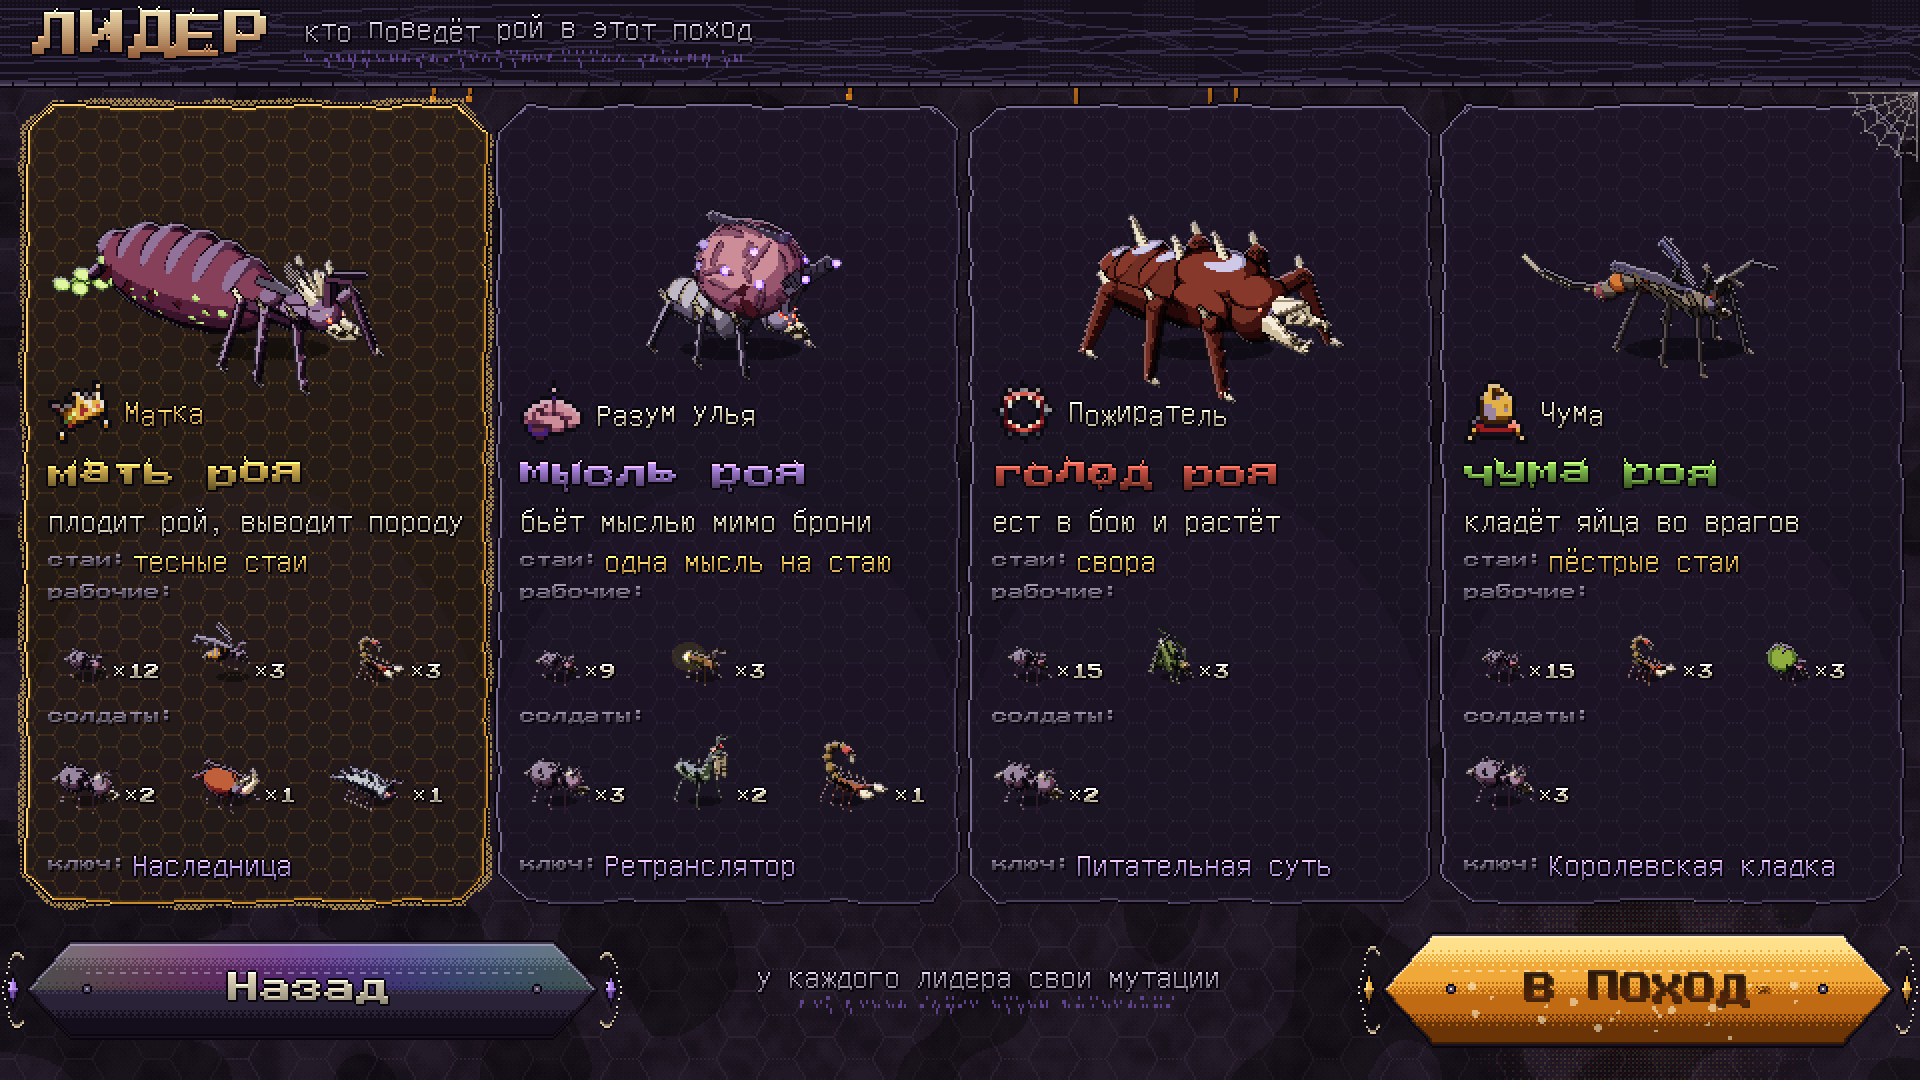
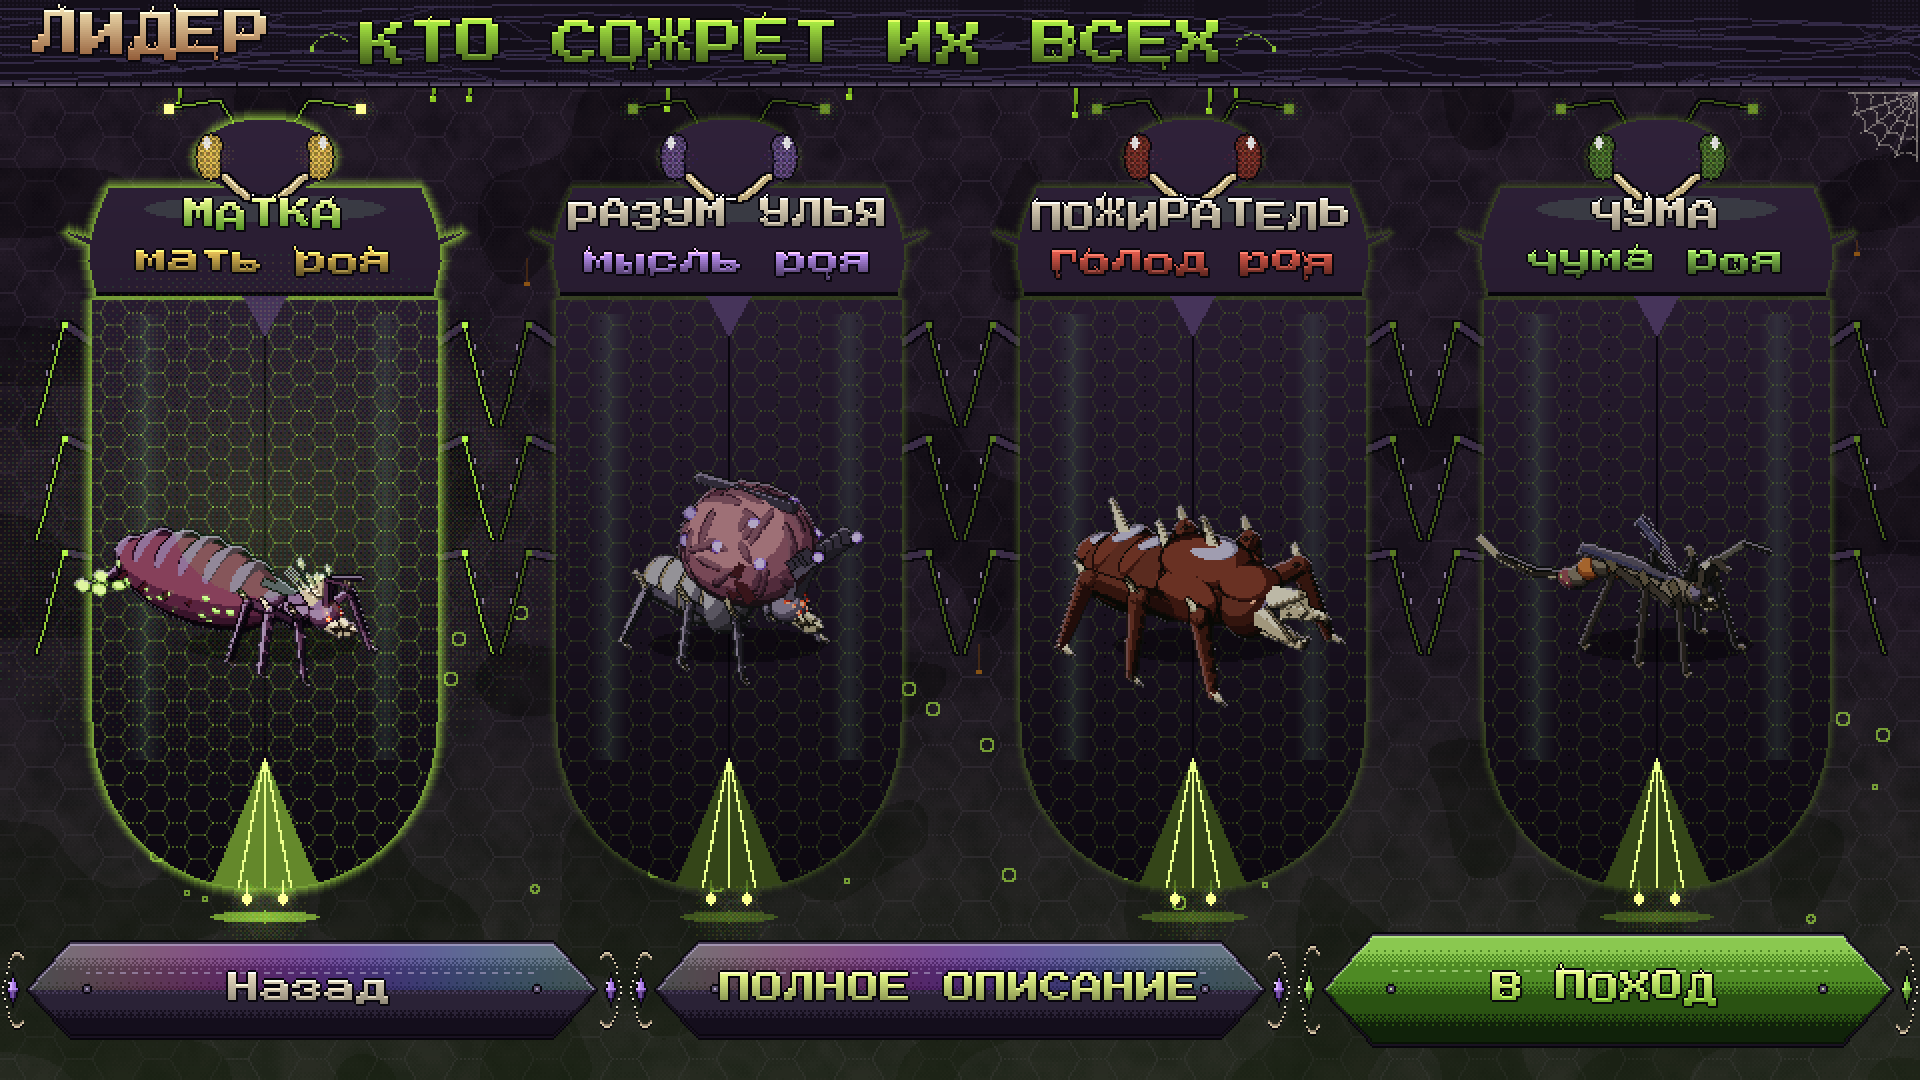
Выбор лидера: «кто сожрет их всех», карточки-жуки в кислоте без описаний, кнопка полного описания
Claude-Session: https://claude.ai/code/session_01Bh6a99SKMjjKSinDnrtssC

diff --git a/tools/sprites/swarm_hud.py b/tools/sprites/swarm_hud.py
@@ -796,51 +796,195 @@ def aftermath():
 
 
 # ---------------------------------------------------------------- choosing the leader at the start of the run
-def leaders_pick():
+ACID, ACID2 = (176, 244, 70), (236, 255, 140)
+
+
+def dilate(m, d=1):
+    out = m.copy()
+    for _ in range(d):
+        out = out | np.roll(out, 1, 0) | np.roll(out, -1, 0) | np.roll(out, 1, 1) | np.roll(out, -1, 1)
+    return out
+
+
+def neon(sc, m, col, width=5, k=0.55):
+    """A glowing rim around a shape: a hard line of light, then a fading haze outside it."""
+    col = np.array(col, float)
+    prev = m
+    for d in range(1, width + 1):
+        ring = dilate(prev, 1) & ~prev
+        a = k * (1 - (d - 1) / width) ** 1.6
+        sc.rgb[ring] = sc.rgb[ring] * (1 - a) + col * a
+        prev = prev | ring
+    o, _, _ = UI.edges(m)
+    sc.rgb[o] = np.minimum(255, col * 1.1 + 20)
+
+
+def ellipse(sc, cx, cy, rx, ry, p=2.0):
+    return (np.abs(sc.xx - cx) / rx) ** p + (np.abs(sc.yy - cy) / ry) ** p <= 1
+
+
+def thick(sc, pts, w, col, hi=None):
+    """A thick jointed line through points: a dark outline, a body, a lit top edge."""
+    for (a_, b_) in zip(pts[:-1], pts[1:]):
+        n = int(max(abs(b_[0] - a_[0]), abs(b_[1] - a_[1]))) + 1
+        for t in np.linspace(0, 1, n):
+            x, y = int(a_[0] + (b_[0] - a_[0]) * t), int(a_[1] + (b_[1] - a_[1]) * t)
+            sc.rgb[y - w:y + w + 1, x - w:x + w + 1] = UI.OUTL
+    for (a_, b_) in zip(pts[:-1], pts[1:]):
+        n = int(max(abs(b_[0] - a_[0]), abs(b_[1] - a_[1]))) + 1
+        for t in np.linspace(0, 1, n):
+            x, y = int(a_[0] + (b_[0] - a_[0]) * t), int(a_[1] + (b_[1] - a_[1]) * t)
+            sc.rgb[y - w + 1:y + w, x - w + 1:x + w] = col
+            if hi is not None:
+                sc.rgb[y - w + 1, x] = hi
+    sc.occ[...] |= False
+
+
+def bug_card(sc, cx, y0, name, sel, seed):
+    """A leader's card shaped as a beetle: a head with compound eyes, sickle mandibles and elbowed antennae; the
+    pronotum bearing the name and the by-name, spined at the shoulders; the elytra holding the leader, a seam down
+    the middle, rows of pits, parting at the tips over a glowing wing; six jointed legs; acid dripping off the tips.
+    The chosen one burns acid-bright; the others smoulder."""
     import swarm_leaders as SL
+    ep, ecol = EPITHET[name]
+    glow = ACID if sel else tuple(int(v * 0.5) for v in ACID)
+    G = np.array(glow, float)
+    rnd = np.random.RandomState(seed)
+    X, Y = sc.xx, sc.yy
+    dy = Y - y0
+    if sel:
+        sc.glow(cx, y0 + 200, 185, hexc("#9ae030"), 0.32)
+    # six legs from under the elytra: femur up and out, tibia down with spikes, a hooked tarsus
+    for side in (-1, 1):
+        for j, ly in enumerate((y0 + 116, y0 + 168, y0 + 220)):
+            p0 = (cx + side * 80, ly)
+            p1 = (cx + side * 100, ly - 14 + j * 5)
+            p2 = (cx + side * 110, ly + 24 + j * 5)
+            p3 = (cx + side * 114, ly + 36 + j * 5)
+            thick(sc, [p0, p1], 2, hexc("#3a2c46"), G * 0.8)
+            thick(sc, [p1, p2, p3], 1, hexc("#4a3a58"), G * 0.8)
+            sc.rgb[int(p1[1]) - 1:int(p1[1]) + 2, int(p1[0]) - 1:int(p1[0]) + 2] = G
+            for t in (0.35, 0.7):
+                x, y = int(p1[0] + (p2[0] - p1[0]) * t), int(p1[1] + (p2[1] - p1[1]) * t)
+                sc.rgb[y - 4:y, x + side * 2] = UI.OUTL
+                sc.rgb[y - 3:y, x + side * 2] = hexc("#8a7a9a")
+    # elbowed antennae with glowing clubs
+    for side in (-1, 1):
+        base, elbow, tipp = (cx + side * 12, y0 + 6), (cx + side * 22, y0 - 10), (cx + side * 48, y0 - 6)
+        thick(sc, [base, elbow, tipp], 1, hexc("#4a3a58"), G * 0.7)
+        sc.rgb[int(tipp[1]) - 2:int(tipp[1]) + 3, int(tipp[0]) - 2:int(tipp[0]) + 3] = np.array(ACID2 if sel else glow, float)
+        sc.glow(tipp[0], tipp[1], 9, G, 0.5)
+    # the body outline, row by row
+    hw = np.zeros(Y.shape, float)
+    r_head = (dy >= 0) & (dy < 36)
+    hw[r_head] = 34 * np.sqrt(np.clip(1 - ((dy[r_head] - 18) / 19) ** 2, 0, 1))
+    r_pro = (dy >= 34) & (dy < 88)
+    hw_pro = np.where(dy < 70, 78 + 10 * np.sin(np.pi / 2 * np.clip((dy - 34) / 36, 0, 1)), 88 - 4 * (dy - 70) / 18)
+    hw[r_pro] = hw_pro[r_pro]
+    r_ely = (dy >= 90) & (dy < 384)
+    hw_ely = np.where(dy < 300, 86, 86 * np.sqrt(np.clip(1 - ((dy - 300) / 84) ** 2, 0, 1)) ** 0.9)
+    hw[r_ely] = hw_ely[r_ely]
+    body = (np.abs(X - cx) <= hw) & (hw > 0)
+    pron = body & r_pro
+    ely = body & r_ely
+    parted = ely & (dy > 318) & (np.abs(X - cx) < (dy - 318) * 0.42)   # the elytra part at the tips
+    ely = ely & ~parted
+    for side in (-1, 1):                                       # shoulder spines on the pronotum
+        for k_ in range(12):
+            yy, xx = y0 + 62 - k_ * 0.5, cx + side * (87 + k_)
+            body[int(yy) - max(0, 2 - k_ // 4):int(yy) + 1, int(xx)] = True
+    neon(sc, body, glow, 6 if sel else 4, 0.6 if sel else 0.4)
+    t = np.clip(dy / 384, 0, 1)[..., None]
+    fill = hexc("#30223a") * (1 - t) + hexc("#0c0810") * t
+    sc.rgb[body] = fill[body]
+    # the wing glowing in the parting
+    sc.rgb[parted] = sc.rgb[parted] * 0.3 + G * 0.55
+    for k_ in range(3):
+        vein = parted & (np.abs((X - cx) - (dy - 318) * (k_ - 1) * 0.2) < 0.6)
+        sc.rgb[vein] = np.array(ACID2, float)
+    # elytra: a faint comb, rows of pits, a seam with the scutellum at its top, a sheen down each side
+    UI.comb(sc, ely, cx - 86, y0 + 90, G, 0.1, R=7)
+    for col_ in (-64, -44, -24, 24, 44, 64):
+        for yy in range(int(y0 + 100), int(y0 + 330), 7):
+            if ely[yy, int(cx + col_)]:
+                sc.rgb[yy, int(cx + col_)] = sc.rgb[yy, int(cx + col_)] * 0.45
+    seam = ely & (np.abs(X - cx) < 1)
+    sc.rgb[seam] = UI.OUTL
+    scut = (dy >= 88) & (dy < 108) & (np.abs(X - cx) <= (108 - dy) * 0.55)
+    sc.rgb[scut] = hexc("#46345a")
+    for side in (-1, 1):
+        d_ = np.abs(X - (cx + side * 60))
+        sh = ely & (d_ < 9) & (dy > 96) & (dy < 320)
+        a_ = (0.16 * (1 - d_ / 9))[..., None]
+        sc.rgb[sh] = (sc.rgb * (1 - a_) + hexc("#6a9a7e") * a_)[sh]
+    groove = body & (dy >= 86) & (dy < 90)                     # the joint between pronotum and elytra
+    sc.rgb[groove] = UI.OUTL
+    psheen = pron & (((X - cx) / 60) ** 2 + ((Y - (y0 + 44)) / 7) ** 2 <= 1)
+    sc.rgb[psheen] = sc.rgb[psheen] * 0.7 + hexc("#5a7a66") * 0.3
+    # compound eyes, sickle mandibles
+    for side in (-1, 1):
+        eye = ellipse(sc, cx + side * 27, y0 + 18, 8, 12) & ~ellipse(sc, cx + side * 17, y0 + 20, 5, 9)
+        sc.rgb[eye] = np.array(ecol, float) * (0.85 if sel else 0.5)
+        fac = eye & (((X + Y) % 3 == 0) | ((X - Y) % 3 == 0))
+        sc.rgb[fac] = sc.rgb[fac] * 0.6
+        hi = ellipse(sc, cx + side * 29, y0 + 11, 2, 3)
+        sc.rgb[hi & eye] = hexc("#ffffff") * 0.85
+        sc.glow(cx + side * 27, y0 + 18, 14, np.array(ecol, float), 0.3 if sel else 0.15)
+        eo, _, _ = UI.edges(eye)
+        sc.rgb[eo] = UI.OUTL
+    for side in (-1, 1):
+        pts = [(cx + side * (20 - 26 * tt), y0 + 28 + 12 * np.sin(tt * 2.2)) for tt in np.linspace(0, 1, 9)]
+        thick(sc, pts[:6], 2, hexc("#bda97a"), hexc("#fff4d0"))
+        thick(sc, pts[5:], 1, hexc("#e8dcb0"), hexc("#ffffff"))
+    # the name and the by-name on the pronotum
+    letters(sc, name.upper(), cx, y0 + 40, "title", 16, col=ACID2 if sel else INK, col2=(90, 150, 40) if sel else None,
+            jitter=1, hairs=4, seed=seed, align="center")
+    w = UI.text_width(ep, "title", 16)
+    epithet(sc, ep, cx - w / 2, y0 + 62, ecol, seed=seed + 3, px=16, curls=False)
+    # the leader on the elytra
+    spr = SL.build(name, "idle", 1.0)
+    kk = min(2.2, 158 / spr.w, 176 / spr.h)
+    lead = SL.build(name, "idle", kk)
+    if not sel:
+        import swarm_effects as E
+        lead = E.lit(lead, (20, 30, 16), 0.25)
+    put(sc, lead, cx + 4, y0 + 262, 44)
+    # acid off the tips
+    for side in (-1, 1):
+        x = cx + side * 9
+        for i in range(6):
+            sc.rgb[int(y0 + 380 + i), int(x)] = np.array(ACID2 if sel else glow, float)
+        drop = ellipse(sc, x, y0 + 389, 2.2, 3)
+        sc.rgb[drop] = np.array(ACID2, float)
+        sc.glow(x, y0 + 388, 9, hexc("#b8f040"), 0.5 if sel else 0.25)
+    pud = ellipse(sc, cx, y0 + 398, 24 + rnd.randint(0, 6), 3)
+    sc.rgb[pud] = sc.rgb[pud] * 0.4 + G * 0.6
+    sc.glow(cx, y0 + 398, 26, hexc("#9ae030"), 0.3 if sel else 0.15)
+
+
+def leaders_pick():
     sc = frame_screen(41)
+    X, Y = sc.xx, sc.yy
+    fog = np.clip((Y - 300) / 240, 0, 1)[..., None] * 0.22    # acid haze rising from the floor
+    sc.rgb[:] = sc.rgb * (1 - fog) + np.array((60, 110, 20), float) * fog
+    rnd = np.random.RandomState(7)
+    for _ in range(40):                                          # bubbles
+        bx, by, br = rnd.randint(10, 950), rnd.randint(300, 470), rnd.choice((1, 1, 2, 3))
+        ring = (np.abs(np.hypot(X - bx, Y - by) - br) < 0.7)
+        sc.rgb[ring] = sc.rgb[ring] * 0.4 + np.array(ACID, float) * 0.6
     UI.wing(sc, 0, 0, WW, 44)
-    UI.drips(sc, 60, 900, 44, "#b06818", n=6, seed=18)
-    title(sc, "ЛИДЕР", "кто поведёт рой в этот поход", seed=35)
-    # start armies as in the concept (workers; soldiers), the flock rule, the key mutation of the leader's pool
-    data = [("Матка", "matka", "плодит рой, выводит породу", "тесные стаи", "Наследница",
-             [((), 12), (("wings",), 3), (("stinger",), 3)], [((), 2), (("horn",), 1), (("carapace",), 1)]),
-            ("Разум улья", "razum", "бьёт мыслью мимо брони", "одна мысль на стаю", "Ретранслятор",
-             [((), 9), (("firefly",), 3)], [((), 3), (("scythes",), 2), (("stinger",), 1)]),
-            ("Пожиратель", "pozh", "ест в бою и растёт", "свора", "Питательная суть",
-             [((), 15), (("jumper",), 3)], [((), 2)]),
-            ("Чума", "kuk", "кладёт яйца во врагов", "пёстрые стаи", "Королевская кладка",
-             [((), 15), (("stinger",), 3), (("acid",), 3)], [((), 3)])]
-    PW_ = 232
-    for k_, (name, ik, what, rule, key, army, soldiers) in enumerate(data):
-        x0 = 12 + k_ * (PW_ + 4)
-        UI.cell(sc, x0, 52, x0 + PW_, 452, "hi" if k_ == 0 else "normal")
-        spr = SL.build(name, "idle", 1.0)
-        kk = min(1.75, 172 / spr.w, 116 / spr.h)
-        put(sc, SL.build(name, "idle", kk), x0 + PW_ / 2 + 6, 174, 30)
-        icon(sc, ik, x0 + 12, 190, 2)
-        letters(sc, name, x0 + 50, 198, "text", 16, col=GOLD if k_ == 0 else INK, jitter=1, seed=k_)
-        ep, ecol = EPITHET[name]
-        epithet(sc, ep, x0 + 12, 228, ecol, seed=k_ + 7, px=16, curls=False)
-        letters(sc, what, x0 + 12, 252, "text", 16, col=INK)
-        letters(sc, "стаи:", x0 + 12, 276, "title", 8, col=PALE, outline=False)
-        letters(sc, rule, x0 + 54, 272, "text", 16, col=GOLD)
-        for r, (lab, row, sold, by) in enumerate((("рабочие:", army, False, 338), ("солдаты:", soldiers, True, 400))):
-            letters(sc, lab, x0 + 12, by - 46, "title", 8, col=PALE, outline=False)
-            for j, (tr, n) in enumerate(row):
-                b_ = bug(tr, "idle", 1.0, 180 + j + k_ * 5 + r * 20, soldier=sold)
-                cx = x0 + 32 + j * 72
-                put(sc, b_, cx, by, 8)
-                right = np.nonzero(b_.a.any(axis=0))[0].max()
-                letters(sc, f"×{n}", cx - b_.ox + right + 3, by - 6, "title", 8, col=INK)
-        letters(sc, "ключ:", x0 + 12, 428, "title", 8, col=PALE, outline=False)
-        letters(sc, key, x0 + 54, 424, "text", 16, col=(196, 160, 236))
+    UI.drips(sc, 60, 900, 44, "#7ab020", n=8, seed=18)
+    w = letters(sc, "ЛИДЕР", 16, 6, "title", 24, col=(236, 216, 170), col2=(150, 96, 60), jitter=1, drips=6, hairs=9, seed=35)
+    epithet(sc, "КТО СОЖРЕТ ИХ ВСЕХ", 16 + w + 44, 10, ACID, seed=36, px=24)
+    names = ["Матка", "Разум улья", "Пожиратель", "Чума"]
+    for i, name in enumerate(names):
+        bug_card(sc, 132 + i * 232, 60, name, i == 0, seed=40 + i)
     UI.button(sc, 12, 470, 300, 520, "chitin")
     letters(sc, "Назад", 156, 486, "title", 16, col=INK, align="center")
-    UI.button(sc, 690, 466, 948, 524, "amber")
-    letters(sc, "В ПОХОД", 819, 486, "title", 16, col=DARK, col2=(90, 40, 10), outline=False, align="center", jitter=1)
-    letters(sc, "у каждого лидера свои мутации", 495, 480, "text", 16, col=MUTED, align="center")
-    scribble(sc, 400, 500, 190, seed=53)
+    UI.button(sc, 326, 470, 634, 520, "chitin")
+    letters(sc, "ПОЛНОЕ ОПИСАНИЕ", 480, 486, "title", 16, col=ACID2, align="center")
+    UI.button(sc, 660, 466, 948, 524, "acid")
+    letters(sc, "В ПОХОД", 804, 486, "title", 16, col=ACID2, col2=(110, 170, 40), align="center", jitter=1, hairs=4)
     UI.cobweb(sc, 958, 46, 34, quad=(-1, 1))
     img = sc.image(S)
     UI.WOBBLE[0] = 0.0
